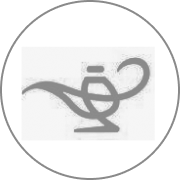
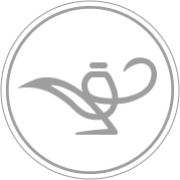
- 'Info' 페이지 로고 디자인 수정 및 구현 - 'BGComponent01' 컴포넌트 이미지 수정 및 레이아웃 조정 - 'BGComponent02' 컴포넌트 레이아웃 조정 - 'Info' 페이지 하단 career 부분 반응형 레이아웃 조정

Changed region(s): [[0.0, 0.0, 1.0, 1.0], [0.0833, 0.3056, 0.8889, 0.75]]

diff --git a/src/components/detailProject/info/Career.js b/src/components/detailProject/info/Career.js
@@ -18,7 +18,7 @@ const CareerWrap = styled.div`
         height: 300px;
     }
     @media ${({ theme }) => theme.size768} {
-        height: 278px;
+        height: 240px;
     }
     @media ${({ theme }) => theme.size568} {
     }
@@ -56,6 +56,10 @@ const YearTo = styled.p`
 
 const CompanyName = styled.p`
     font-family: "AppleSDGothicNeoM";
+    font-size: 16px;
+    @media ${({ theme }) => theme.size768} {
+        font-size: 13px;
+    }
 `;
 
 const Title = styled.h1`
@@ -65,6 +69,12 @@ const Title = styled.h1`
     line-height: 24px;
     margin-bottom: 30px;
     word-break: keep-all;
+    @media ${({ theme }) => theme.size768} {
+        margin-bottom: 0;
+        margin-top: 5px;
+        font-size: 16px;
+        line-height: 20px;
+    }
 `;
 
 const DetailList = styled.ul`
@@ -91,24 +101,49 @@ const DetailText = styled.p`
     font-size: 13px;
 `;
 
-// const Line = styled.div`
-//     width: 100%;
-//     height: 1px;
-//     background-color: #ddd;
-// `;
+const TitleWrapSizeFull = styled.div`
+    @media ${({ theme }) => theme.size768} {
+        display: none;
+    }
+`;
+const TitleWrapSize768 = styled.div`
+    display: none;
+    @media ${({ theme }) => theme.size768} {
+        display: block;
+    }
+`;
+const TitleWrap = styled.div`
+    width: 80%;
+`;
 
 const Career = ({ career }) => {
     return (
         <Wrap>
             <CareerWrap>
-                <YearWrap>
-                    <YearObj>
-                        <YearFrom>{career.from}</YearFrom>
-                        <YearTo>{career.to}</YearTo>
-                    </YearObj>
-                    <CompanyName>{career.company}</CompanyName>
-                </YearWrap>
-                <Title>{career.title}</Title>
+                <TitleWrapSizeFull>
+                    <YearWrap>
+                        <YearObj>
+                            <YearFrom>{career.from}</YearFrom>
+                            <YearTo>{career.to}</YearTo>
+                        </YearObj>
+                        <CompanyName>{career.company}</CompanyName>
+                    </YearWrap>
+                    <Title>{career.title}</Title>
+                </TitleWrapSizeFull>
+
+                <TitleWrapSize768>
+                    <YearWrap>
+                        <YearObj>
+                            <YearFrom>{career.from}</YearFrom>
+                            <YearTo>{career.to}</YearTo>
+                        </YearObj>
+                        <TitleWrap>
+                            <CompanyName>{career.company}</CompanyName>
+                            <Title>{career.title}</Title>
+                        </TitleWrap>
+                    </YearWrap>
+                </TitleWrapSize768>
+
                 <DetailList>
                     {career.detailCareer.map((text, index) => {
                         return (

diff --git a/src/components/BgComponent01.js b/src/components/BgComponent01.js
@@ -17,7 +17,7 @@ const Image = styled.img`
 
 const BgComponent01 = ({ isShow }) => {
     const [objs, setObjs] = useState([
-        { translateY: 50, width: 813, height: 512, right: 146, opacity: 0 },
+        { translateY: 50, width: 398, height: 535, right: 350, opacity: 0 },
     ]);
 
     useEffect(() => {
@@ -26,9 +26,9 @@ const BgComponent01 = ({ isShow }) => {
                 setObjs([
                     {
                         translateY: 0,
-                        width: 813,
-                        height: 512,
-                        right: 146,
+                        width: 398,
+                        height: 535,
+                        right: 350,
                         opacity: 1,
                     },
                 ]);
@@ -38,9 +38,9 @@ const BgComponent01 = ({ isShow }) => {
                 setObjs([
                     {
                         translateY: 50,
-                        width: 813,
-                        height: 512,
-                        right: 146,
+                        width: 398,
+                        height: 535,
+                        right: 350,
                         opacity: 0,
                     },
                 ]);

diff --git a/src/components/BgComponent02.js b/src/components/BgComponent02.js
@@ -17,7 +17,7 @@ const Image = styled.img`
 
 const BgComponent02 = ({ isShow }) => {
     const [objs, setObjs] = useState([
-        { translateY: 68, width: 616, height: 589, right: 210, opacity: 0 },
+        { translateY: 68, width: 568, height: 545, right: 210, opacity: 0 },
     ]);
 
     useEffect(() => {
@@ -26,8 +26,8 @@ const BgComponent02 = ({ isShow }) => {
                 setObjs([
                     {
                         translateY: 18,
-                        width: 616,
-                        height: 589,
+                        width: 568,
+                        height: 545,
                         right: 210,
                         opacity: 1,
                     },
@@ -38,8 +38,8 @@ const BgComponent02 = ({ isShow }) => {
                 setObjs([
                     {
                         translateY: 68,
-                        width: 616,
-                        height: 589,
+                        width: 568,
+                        height: 545,
                         right: 210,
                         opacity: 0,
                     },

diff --git a/src/components/MainHeader.js b/src/components/MainHeader.js
@@ -1,6 +1,5 @@
 import { useEffect, useState } from "react";
 import styled from "styled-components";
-import CallyIntroduce from "./../images/cally_introduce.png";
 import { Link } from "react-router-dom";
 import { categoryImages, logo } from "../images";
 
@@ -63,7 +62,6 @@ const LogoImage = styled.img`
 `;
 
 const Gnb = styled.ul`
-    font-family: "AppleSDGothicNeoB";
     width: 27%;
     justify-content: space-between;
     display: flex;
@@ -74,6 +72,7 @@ const Gnb = styled.ul`
 `;
 
 const GnbItem = styled.li`
+    font-family: "AppleSDGothicNeoB";
     font-size: 16px;
     cursor: pointer;
     color: ${({ theme, isChangedTheme, isPcBreakPoint }) =>
@@ -268,7 +267,7 @@ const MainHeader = ({
                                     }
                                 }}
                             >
-                                <a>{item.title}</a>
+                                {item.title}
                             </GnbItem>
                         );
                     })}

diff --git a/src/images.js b/src/images.js
@@ -52,7 +52,7 @@ import FooterThumbKtng from "./images/footerThumb/ktng.png";
 import FooterThumbConcertKit from "./images/footerThumb/concertKit.png";
 import FooterThumbKyobo from "./images/footerThumb/kyobo.png";
 import FooterThumbBeotherm from "./images/footerThumb/beotherm.png";
-import InfoMainVisual from "./images/08_info/main_visual.png";
+import InfoMainVisual from "./images/08_info/main_visual.jpeg";
 import InfoIconCheck from "./images/08_info/icon_check.png";
 import InfoIconIllust from "./images/08_info/icon_illust.png";
 import AbilityLogoReact from "./images/09_ability/logo_react.png";

diff --git a/src/screens/DetailInfo.js b/src/screens/DetailInfo.js
@@ -248,11 +248,6 @@ const DetailInfo = ({ scrollX, scrollY }) => {
                             </CareerSize768>
                         </Container>
                     </ColumnContainer>
-                    {/* <PrevNextButton
-                        translateX={translateX}
-                        setTranslateX={setTranslateX}
-                        pageName="Info"
-                    /> */}
                 </Section>
             </InfoWrap>
         </Wrap>

diff --git a/src/components/Sticker.js b/src/components/Sticker.js
@@ -6,8 +6,8 @@ const ImageWrap = styled.div`
     width: 97px;
     height: 97px;
     position: absolute;
-    top: -20%;
-    right: 9%;
+    top: 50%;
+    right: -10%;
     opacity: ${({ opacity }) => opacity};
     z-index: 1;
     transition: 0.5s;
